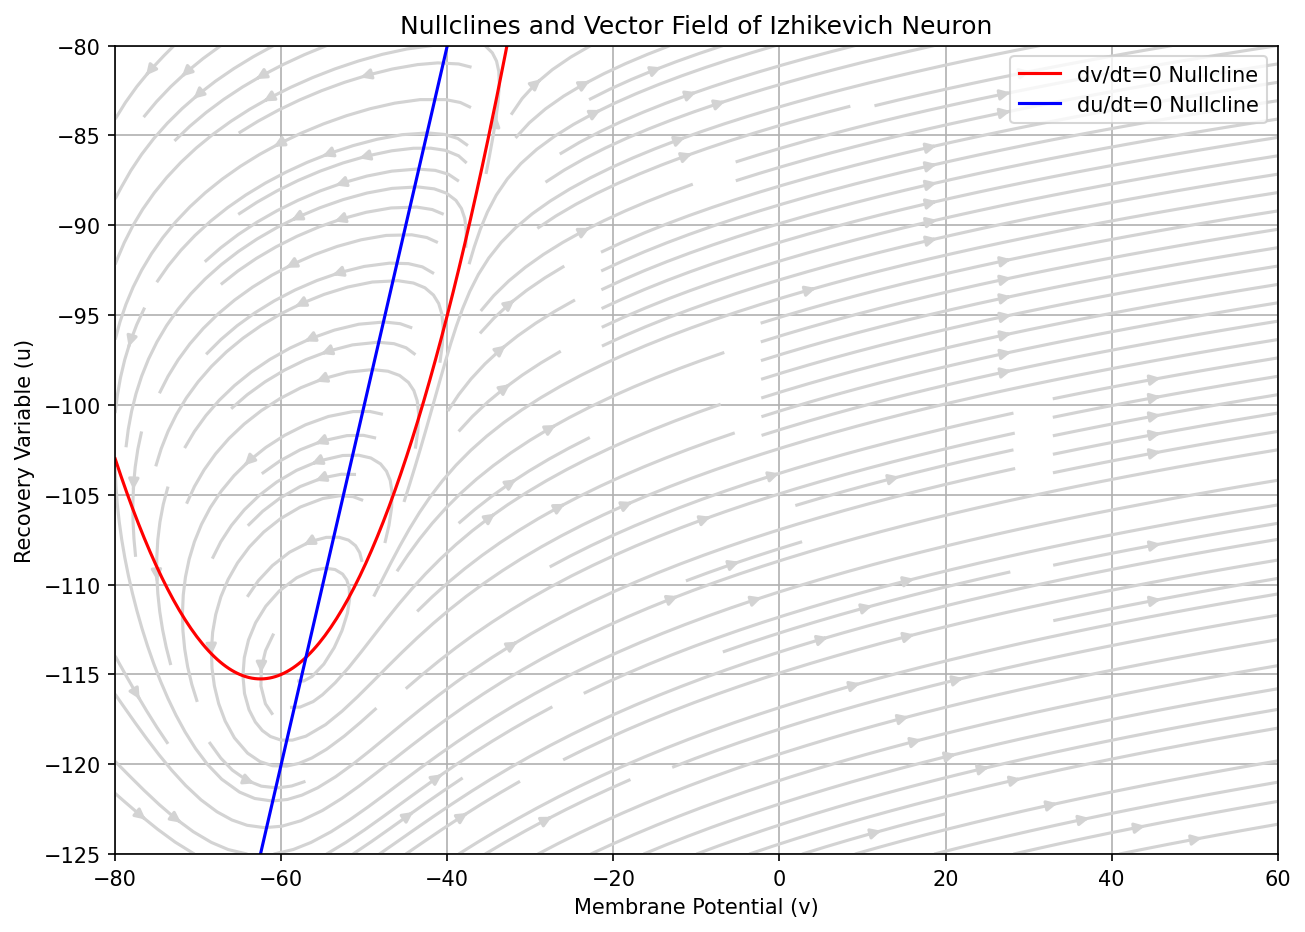
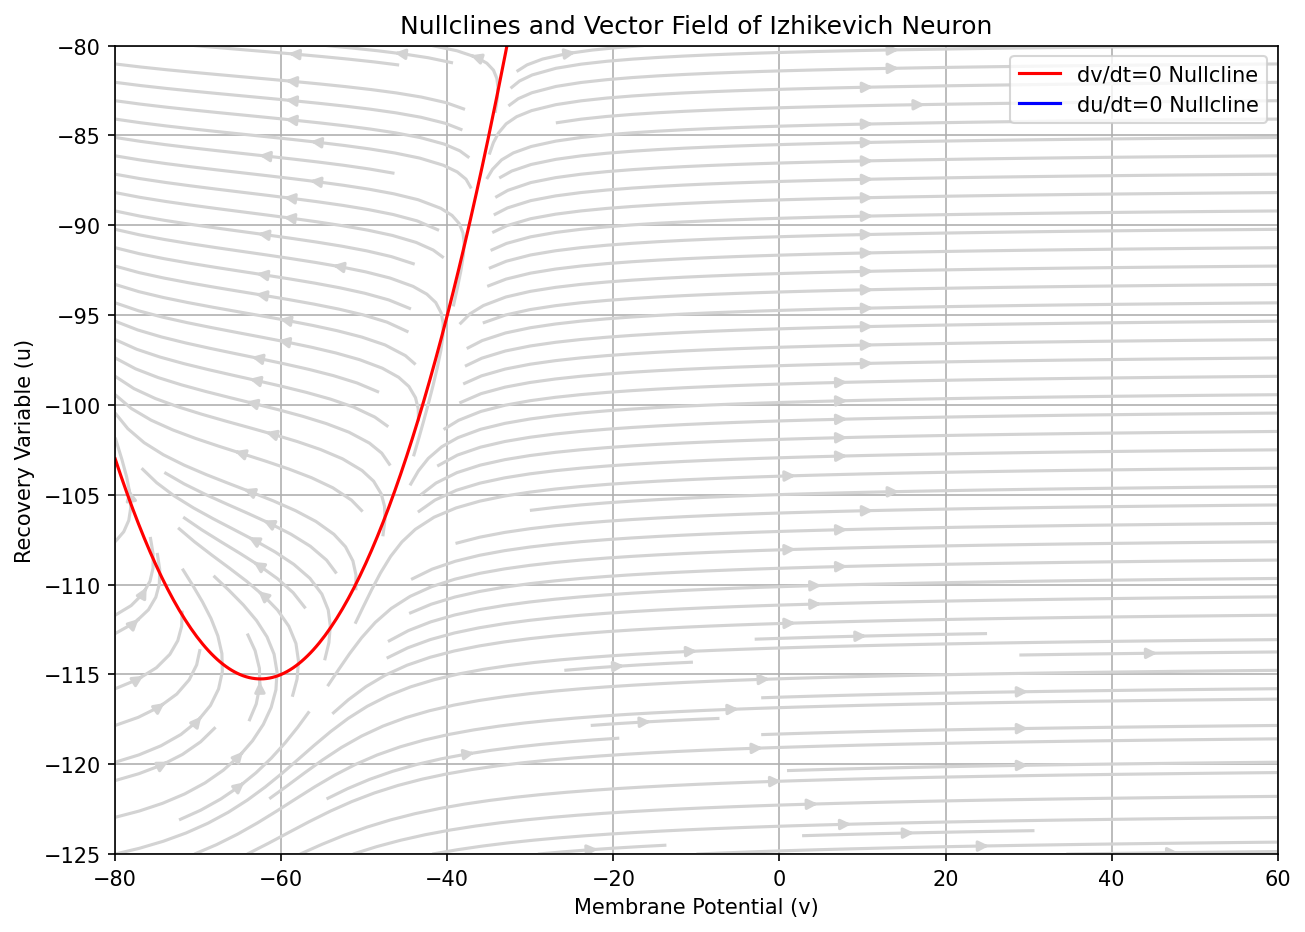
code added

Changed region(s): [[0.092, 0.0311, 0.9808, 0.9335], [0.8582, 0.0311, 0.8889, 0.0622]]

diff --git a/Izhikevich.py b/Izhikevich.py
@@ -9,9 +9,10 @@ import matplotlib.pyplot as plt
 import time
 
 DELTA_T: float = 0.1  # Time step in ms
+V_TH:int = 30  # Spike threshold in mV
 
 class IzhikevichNeuron:
-    def __init__(self, a=0.2, b=2, c=-56, d=-16):
+    def __init__(self, a=0.2, b=2, c=-56, d=-13):
         self.a = a
         self.b = b
         self.c = c
@@ -23,7 +24,7 @@ class IzhikevichNeuron:
 
     def step(self, I, dt=DELTA_T):
         for _ in range(1):
-            if self.v >= 30:
+            if self.v >= V_TH:
                 self.v = self.c
                 self.u += self.d
             self.dv = (0.04 * self.v ** 2 + 5 * self.v + 140 - self.u + I) * dt
@@ -67,6 +68,7 @@ def plot_uv(u_trace, v_trace, dt=DELTA_T):
     # plt.show()
 
 # The def. of Nullclines is where dv/dt = 0 and du/dt = 0.
+'''
 def plot_nullclines_and_vectors(neuron, I, v_range=(-80, 60), u_range=(-125, -80), dt=DELTA_T):
     v = np.linspace(v_range[0], v_range[1], 400)
     u = np.linspace(u_range[0], u_range[1], 400)
@@ -95,6 +97,16 @@ def plot_nullclines_and_vectors(neuron, I, v_range=(-80, 60), u_range=(-125, -80
     plt.savefig('izhikevich_nullclines.png', dpi=150, bbox_inches='tight')  # 保存
     print("Plot saved as 'izhikevich_nullclines.png'")
     # plt.show()
+'''
+
+def ISIs(v_trace, dt=DELTA_T):
+    spike_times = np.where(v_trace >= V_TH)[0] * dt
+    ISI = np.diff(spike_times)
+    # Save ISI to a csv file
+    np.savetxt('izhikevich_ISI.csv', ISI, delimiter=',')
+    print("ISI saved as 'izhikevich_ISI.csv'")
+    return ISI
+
 
 if __name__ == "__main__":
     neuron = IzhikevichNeuron()
@@ -109,6 +121,8 @@ if __name__ == "__main__":
     print(f"Simulation completed in {end_time - start_time:.4f} seconds.")
     plot_results(v_trace, dt)
     plot_uv(u_trace, v_trace, dt)
-    plot_nullclines_and_vectors(neuron, I)
+    # plot_nullclines_and_vectors(neuron, I)
     print(v_trace)
     print(u_trace)
+    ISI = ISIs(v_trace, dt)
+    print("Inter-Spike Intervals (ISI):", ISI)

diff --git a/printISI.py b/printISI.py
@@ -1,0 +1,19 @@
+import matplotlib.pyplot as plt
+import numpy as np
+
+csv_PATH = 'izhikevich_ISI_chaos.csv'
+
+def plot_return_map(csv_PATH):
+    ISI = np.loadtxt(csv_PATH, delimiter=',') # Load ISI data from CSV
+    ISI_n = ISI[:-1]
+    ISI_n1 = ISI[1:]
+    plt.figure(figsize=(8, 8))
+    plt.scatter(ISI_n, ISI_n1, s=1, color='blue')
+    plt.title('Return Map of Inter-Spike Intervals (ISI)')
+    plt.xlabel('ISI_n (ms)')
+    plt.ylabel('ISI_n+1 (ms)')
+    plt.grid()
+    plt.axis('equal')
+    plt.savefig('izhikevich_ISI_return_map.png', dpi=150, bbox_inches='tight')
+    print("Return map plot saved as 'izhikevich_ISI_return_map.png'")
+    # plt.show()

diff --git a/main.py b/main.py
@@ -4,3 +4,28 @@ def main():
 
 if __name__ == "__main__":
     main()
+
+'''
+How can I upload this project to remote git repository?To upload your project to a remote Git repository, follow these steps:
+1. Initialize a Git repository (if you haven't already):
+   ```
+   git init
+   ```
+2. Add your files to the staging area:
+   ```
+   git add .
+   ```
+3. Commit your changes:
+   ```
+   git commit -m "Initial commit"
+   ```
+4. Add a remote repository (replace <REMOTE_URL> with your repository URL):
+   ```
+   git remote add origin <REMOTE_URL>
+   ```
+5. Push your changes to the remote repository:
+   ```
+   git push -u origin master
+   ```
+
+'''

diff --git a/quine.py b/quine.py
@@ -1,0 +1,1 @@
+a="print(f'a={repr(a)};exec(a)')";exec(a)

diff --git a/README.md b/README.md
@@ -1,0 +1,10 @@
+Chaos:
+
+DELTA_T: float = 0.1  # Time step in ms
+
+class IzhikevichNeuron:
+    def __init__(self, a=0.2, b=2, c=-56, d=-16):
+
+
+RS:
+
